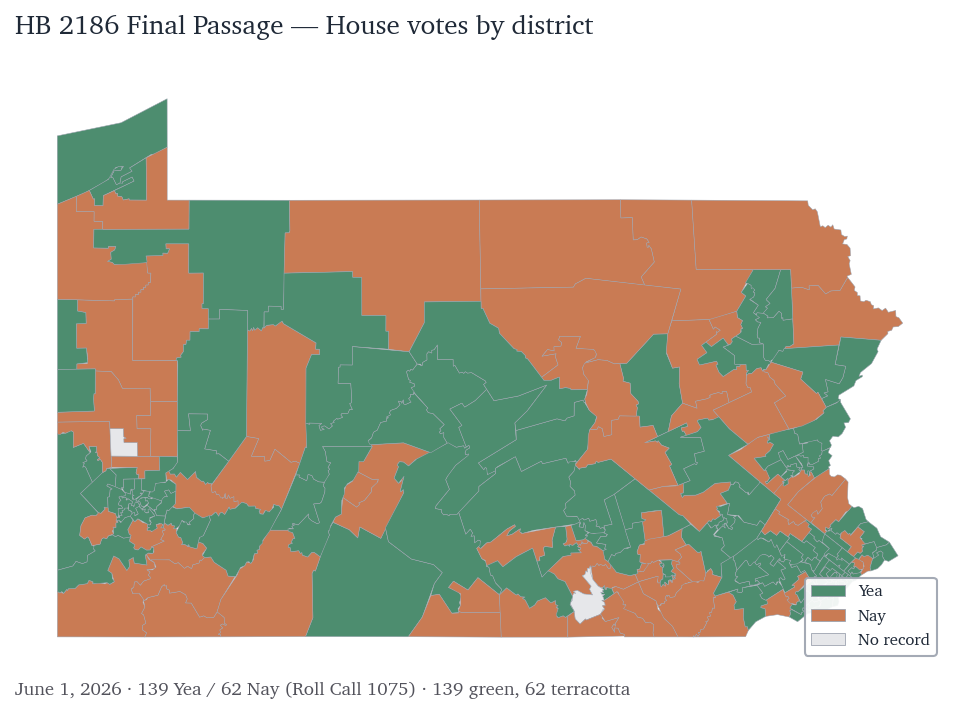
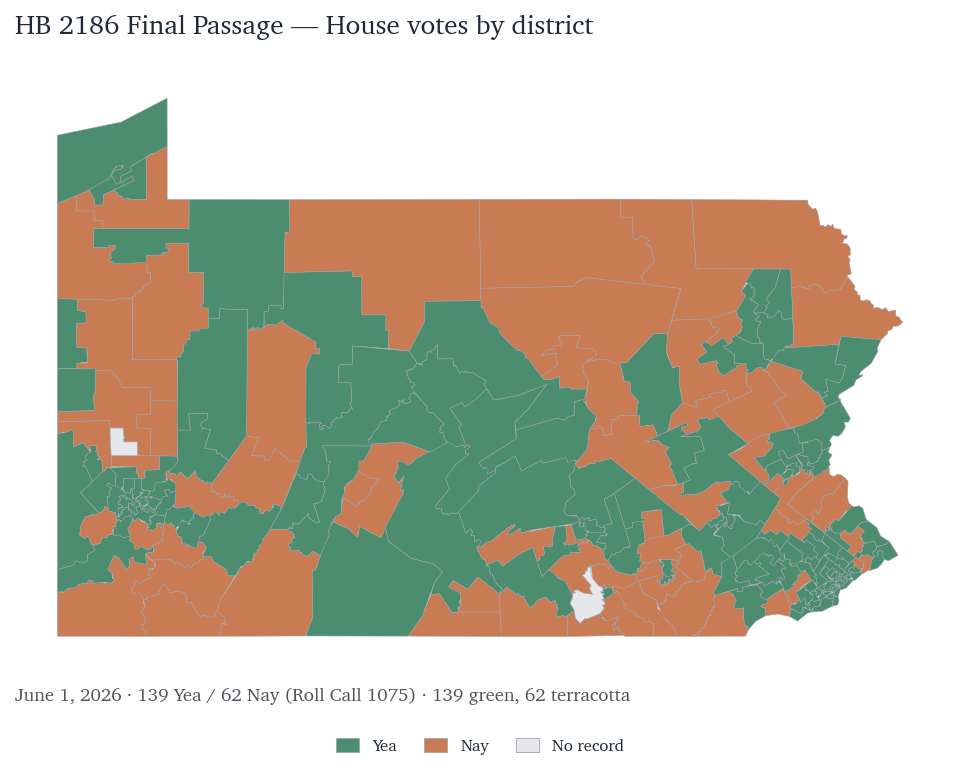
HB 2186 memo: move map legends below the figure + mobile cleanup
Two reported issues on the public memo page:
1. Legends were anchored inside the axes ("lower right" / "lower
   left") and sat on top of Pennsylvania districts, hiding the
   map.
2. The page was tuned for letter portrait print and was cramped
   on phones (0.7in side padding ≈ 67px, 11pt body).

Legend fix (pipeline/scripts/render_memo_assets.py)
- New `_legend_below` helper places a horizontal legend under
  the axes via bbox_to_anchor=(0.5, -0.10), frameon=False. All
  four maps (final passage, vote change, reform-interested,
  northern tier) switched to it.
- `_label` subtitle moved from y=-0.03 to y=-0.04 so it sits in
  the narrow band between map bottom and legend, not on top of
  the swatches.
- Regenerated all 7 PNGs.

Mobile cleanup (src/pages/coalition/hb2186-memo.astro)
- New @media (max-width: 720px) block:
  - Body font 11pt → 16px for comfortable reading
  - Padding 0.6in × 0.7in × 0.8in → 18px × 16px × 24px
  - Doc header stacks vertically (wordmark over meta) instead
    of crowding both onto one row
  - h1/h2/h3 sized down a notch; body p/li to 1rem
  - Tables become horizontally scrollable instead of overflowing
    or crushing
  - Figure margin pulls flush with content edges
  - Footer text scaled down

Print stylesheet is unchanged. Letter-portrait export still
renders the same way.

diff --git a/pipeline/scripts/render_memo_assets.py b/pipeline/scripts/render_memo_assets.py
@@ -112,17 +112,40 @@ def _base_ax(fig_w=8, fig_h=5.5):
     return fig, ax
 
 def _label(ax, title: str, subtitle: str | None = None):
+    """Render title (and optional subtitle) above the map. Subtitle is
+    placed between the map and the legend area below."""
     ax.set_title(title, loc="left", pad=8, fontsize=13)
     if subtitle:
-        ax.text(0, -0.03, subtitle, transform=ax.transAxes,
-                fontsize=9, color="#52525b", va="top")
+        # Subtitle sits just below the axes, ABOVE where _legend_below
+        # will place the legend.
+        ax.text(0, -0.04, subtitle, transform=ax.transAxes,
+                fontsize=9, color="#52525b", va="top", ha="left")
 
 def _legend(ax, entries: list[tuple[str, str]], loc="lower right"):
-    """entries = [(color, label), ...]. Renders a clean swatch legend."""
+    """entries = [(color, label), ...]. Legacy in-axes legend."""
     handles = [mpatches.Patch(color=c, label=l, ec=COLORS["outline_thin"], lw=0.4)
                for c, l in entries]
     ax.legend(handles=handles, loc=loc, fontsize=8, frameon=True,
               framealpha=0.92, edgecolor=COLORS["outline_thin"])
+
+def _legend_below(ax, entries: list[tuple[str, str]], ncol: int | None = None):
+    """Horizontal legend placed below the map, so it never overlaps PA
+    geography. `ncol` defaults to len(entries) — one row across."""
+    handles = [mpatches.Patch(color=c, label=l, ec=COLORS["outline_thin"], lw=0.4)
+               for c, l in entries]
+    if ncol is None:
+        ncol = len(entries)
+    ax.legend(
+        handles=handles,
+        loc="upper center",
+        bbox_to_anchor=(0.5, -0.10),
+        ncol=ncol,
+        fontsize=8,
+        frameon=False,
+        handlelength=1.4,
+        handleheight=0.9,
+        columnspacing=1.6,
+    )
 
 # ---------------------------------------------------------------------------
 # MAP 1: Final Passage choropleth
@@ -137,8 +160,8 @@ def map_final_passage():
         f"June 1, 2026 · 139 Yea / 62 Nay (Roll Call 1075) · "
         f"{(hd['rc75']=='Yea').sum()} green, {(hd['rc75']=='Nay').sum()} terracotta",
     )
-    _legend(ax, [(COLORS["yea"], "Yea"), (COLORS["nay"], "Nay"),
-                  (COLORS["muted"], "No record")])
+    _legend_below(ax, [(COLORS["yea"], "Yea"), (COLORS["nay"], "Nay"),
+                       (COLORS["muted"], "No record")])
     fig.savefig(OUT_DIR / "map-final-passage.png")
     plt.close(fig)
     print(f"  wrote {OUT_DIR/'map-final-passage.png'}")
@@ -164,12 +187,12 @@ def map_vote_change():
         "Vote shifts between 2nd Consideration and Final Passage",
         f"21 districts moved Nay → Yea; 16 moved Yea → Nay. Net +5 Yea on Final Passage.",
     )
-    _legend(ax, [
+    _legend_below(ax, [
         (COLORS["flip_to_yea"], "Nay → Yea (came around)"),
         (COLORS["flip_to_nay"], "Yea → Nay (defected on PN 3373)"),
         ("#cfe1d6", "Stayed Yea"),
         ("#efd9cb", "Stayed Nay"),
-    ], loc="lower left")
+    ], ncol=2)
     fig.savefig(OUT_DIR / "map-vote-change.png")
     plt.close(fig)
     print(f"  wrote {OUT_DIR/'map-vote-change.png'}")
@@ -203,11 +226,11 @@ def map_reform_interested():
         "Reform-interested House Republicans (53 members)",
         f"{stayed} held Yea on Final Passage; {switched} voted Yea on 2nd Consideration only.",
     )
-    _legend(ax, [
+    _legend_below(ax, [
         (COLORS["yea"], f"Yea on Final Passage ({stayed})"),
         ("#a6c5a4", f"Yea on 2nd Consideration only ({switched})"),
         (COLORS["muted"], "Other districts"),
-    ], loc="lower right")
+    ])
     fig.savefig(OUT_DIR / "map-reform-interested.png")
     plt.close(fig)
     print(f"  wrote {OUT_DIR/'map-reform-interested.png'}")
@@ -240,11 +263,11 @@ def map_northern_tier():
         "Northern Tier expansion target districts (6) + rural R peers who came around (14)",
         "Demographic profile of NT targets matches that of the 14 came-around peers between rc 1054 and rc 1075.",
     )
-    _legend(ax, [
+    _legend_below(ax, [
         (COLORS["target"], "Target district (R Nay both votes)"),
         (COLORS["peer"], "Peer district (R Nay → Yea between votes)"),
         (COLORS["muted"], "Other districts"),
-    ], loc="lower right")
+    ])
     fig.savefig(OUT_DIR / "map-northern-tier.png")
     plt.close(fig)
     print(f"  wrote {OUT_DIR/'map-northern-tier.png'}")
